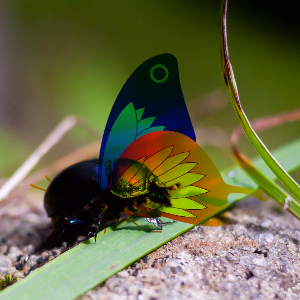
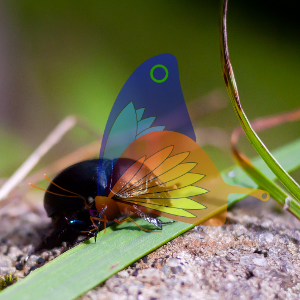
Added new blend modes to Blend effect

Changed region(s): [[0.27, 0.18, 0.9, 0.78], [0.09, 0.57, 0.27, 0.66]]

diff --git a/qtgraphicaleffects/src/effects/Blend.qml b/qtgraphicaleffects/src/effects/Blend.qml
@@ -79,16 +79,29 @@ Item {
         function buildFragmentShader() {
             var shader = fragmentShaderBegin
 
-            switch (mode) {
-                case "darken" : shader += blendModeDarken; break;
+            switch (mode.toLowerCase()) {
                 case "addition" : shader += blendModeAddition; break;
+                case "average" : shader += blendModeAverage; break;
+                case "color" : shader += blendModeColor; break;
+                case "colorburn" : shader += blendModeColorBurn; break;
+                case "colordodge" : shader += blendModeColorDodge; break;
+                case "darken" : shader += blendModeDarken; break;
+                case "darkercolor" : shader += blendModeDarkerColor; break;
                 case "difference" : shader += blendModeDifference; break;
                 case "divide" : shader += blendModeDivide; break;
+                case "exclusion" : shader += blendModeExclusion; break;
+                case "hardlight" : shader += blendModeHardLight; break;
+                case "hue" : shader += blendModeHue; break;
                 case "lighten" : shader += blendModeLighten; break;
+                case "lightercolor" : shader += blendModeLighterColor; break;
+                case "lightness" : shader += blendModeLightness; break;
+                case "negation" : shader += blendModeNegation; break;
                 case "normal" : shader += blendModeNormal; break;
                 case "multiply" : shader += blendModeMultiply; break;
+                case "saturation" : shader += blendModeSaturation; break;
                 case "screen" : shader += blendModeScreen; break;
                 case "subtract" : shader += blendModeSubtract; break;
+                case "softlight" : shader += blendModeSoftLight; break;
                 default: shader += "gl_FragColor = vec4(1.0, 0.0, 0.0, 1.0);"; break;
             }
 
@@ -108,20 +121,107 @@ Item {
         }
 
         property string blendModeAddition: "result.rgb = min(rgb1 + rgb2, 1.0);"
+        property string blendModeAverage: "result.rgb = 0.5 * (rgb1 + rgb2);"
+        property string blendModeColor: "result.rgb = HSLtoRGB(vec3(RGBtoHSL(rgb2).xy, RGBtoL(rgb1)));"
+        property string blendModeColorBurn: "result.rgb = clamp(1.0 - ((1.0 - rgb1) / max(vec3(1.0 / 256.0), rgb2)), vec3(0.0), vec3(1.0));"
+        property string blendModeColorDodge: "result.rgb = clamp(rgb1 / max(vec3(1.0 / 256.0), (1.0 - rgb2)), vec3(0.0), vec3(1.0));"
         property string blendModeDarken: "result.rgb = min(rgb1, rgb2);"
+        property string blendModeDarkerColor: "result.rgb = 0.3 * rgb1.r + 0.59 * rgb1.g + 0.11 * rgb1.b > 0.3 * rgb2.r + 0.59 * rgb2.g + 0.11 * rgb2.b ? rgb2 : rgb1;"
         property string blendModeDifference: "result.rgb = abs(rgb1 - rgb2);"
         property string blendModeDivide: "result.rgb = clamp(rgb1 / rgb2, 0.0, 1.0);"
+        property string blendModeExclusion: "result.rgb = rgb1 + rgb2 - 2.0 * rgb1 * rgb2;"
+        property string blendModeHardLight: "result.rgb = vec3(channelBlendHardLight(rgb1.r, rgb2.r), channelBlendHardLight(rgb1.g, rgb2.g), channelBlendHardLight(rgb1.b, rgb2.b));"
+        property string blendModeHue: "result.rgb = HSLtoRGB(vec3(RGBtoHSL(rgb2).x, RGBtoHSL(rgb1).yz));"
         property string blendModeLighten: "result.rgb = max(rgb1, rgb2);"
+        property string blendModeLighterColor: "result.rgb = 0.3 * rgb1.r + 0.59 * rgb1.g + 0.11 * rgb1.b > 0.3 * rgb2.r + 0.59 * rgb2.g + 0.11 * rgb2.b ? rgb1 : rgb2;"
+        property string blendModeLightness: "result.rgb = HSLtoRGB(vec3(RGBtoHSL(rgb1).xy, RGBtoL(rgb2)));"
         property string blendModeMultiply: "result.rgb = rgb1 * rgb2;"
+        property string blendModeNegation: "result.rgb = 1.0 - abs(1.0 - rgb1 - rgb2);"
         property string blendModeNormal: "result.rgb = rgb2;"
+        property string blendModeSaturation: "lowp vec3 hsl1 = RGBtoHSL(rgb1); result.rgb = HSLtoRGB(vec3(hsl1.x, RGBtoHSL(rgb2).y, hsl1.z));"
         property string blendModeScreen: "result.rgb = 1.0 - (vec3(1.0) - rgb1) * (vec3(1.0) - rgb2);"
         property string blendModeSubtract: "result.rgb = max(rgb1 - rgb2, vec3(0.0));"
+        property string blendModeSoftLight: "result.rgb = rgb1 * ((1.0 - rgb1) * rgb2 + (1.0 - (1.0 - rgb1) * (1.0 - rgb2)));"
 
         property string fragmentShaderBegin: "
             varying mediump vec2 qt_TexCoord0;
             uniform highp float qt_Opacity;
             uniform sampler2D backgroundSource;
             uniform sampler2D foregroundSource;
+
+            highp float RGBtoL(highp vec3 color) {
+                highp float cmin = min(color.r, min(color.g, color.b));
+                highp float cmax = max(color.r, max(color.g, color.b));
+                highp float l = (cmin + cmax) / 2.0;
+                return l;
+            }
+
+            highp vec3 RGBtoHSL(highp vec3 color) {
+                highp float cmin = min(color.r, min(color.g, color.b));
+                highp float cmax = max(color.r, max(color.g, color.b));
+                highp float h = 0.0;
+                highp float s = 0.0;
+                highp float l = (cmin + cmax) / 2.0;
+                highp float diff = cmax - cmin;
+
+                if (diff > 1.0 / 256.0) {
+                    if (l < 0.5)
+                        s = diff / (cmin + cmax);
+                    else
+                        s = diff / (2.0 - (cmin + cmax));
+
+                    if (color.r == cmax)
+                        h = (color.g - color.b) / diff;
+                    else if (color.g == cmax)
+                        h = 2.0 + (color.b - color.r) / diff;
+                    else
+                        h = 4.0 + (color.r - color.g) / diff;
+
+                    h /= 6.0;
+                }
+                return vec3(h, s, l);
+                }
+
+            highp float hueToIntensity(highp float v1, highp float v2, highp float h) {
+                h = fract(h);
+                if (h < 1.0 / 6.0)
+                    return v1 + (v2 - v1) * 6.0 * h;
+                else if (h < 1.0 / 2.0)
+                    return v2;
+                else if (h < 2.0 / 3.0)
+                    return v1 + (v2 - v1) * 6.0 * (2.0 / 3.0 - h);
+
+                return v1;
+            }
+
+            highp vec3 HSLtoRGB(highp vec3 color) {
+                highp float h = color.x;
+                highp float l = color.z;
+                highp float s = color.y;
+
+                if (s < 1.0 / 256.0)
+                    return vec3(l, l, l);
+
+                highp float v1;
+                highp float v2;
+                if (l < 0.5)
+                    v2 = l * (1.0 + s);
+                else
+                    v2 = (l + s) - (s * l);
+
+                v1 = 2.0 * l - v2;
+
+                highp float d = 1.0 / 3.0;
+                highp float r = hueToIntensity(v1, v2, h + d);
+                highp float g = hueToIntensity(v1, v2, h);
+                highp float b = hueToIntensity(v1, v2, h - d);
+                return vec3(r, g, b);
+            }
+
+            lowp float channelBlendHardLight(lowp float c1, lowp float c2) {
+                return c2 > 0.5 ? (1.0 - (1.0 - 2.0 * (c2 - 0.5)) * (1.0 - c1)) : (2.0 * c1 * c2);
+            }
+
             void main() {
                 lowp vec4 result = vec4(0.0);
                 lowp vec4 color1 = texture2D(backgroundSource, qt_TexCoord0);

diff --git a/qtgraphicaleffects/tests/manual/testbed/TestBlend.qml b/qtgraphicaleffects/tests/manual/testbed/TestBlend.qml
@@ -102,7 +102,32 @@ TestCaseTemplate {
                     onPressedChanged: blendMode.value = caption
                 }
                 RadioButton {
+                    caption: "average"
+                    selected: caption == blendMode.value
+                    onPressedChanged: blendMode.value = caption
+                }
+                RadioButton {
+                    caption: "color"
+                    selected: caption == blendMode.value
+                    onPressedChanged: blendMode.value = caption
+                }
+                RadioButton {
+                    caption: "colorBurn"
+                    selected: caption == blendMode.value
+                    onPressedChanged: blendMode.value = caption
+                }
+                RadioButton {
+                    caption: "colorDodge"
+                    selected: caption == blendMode.value
+                    onPressedChanged: blendMode.value = caption
+                }
+                RadioButton {
                     caption: "darken"
+                    selected: caption == blendMode.value
+                    onPressedChanged: blendMode.value = caption
+                }
+                RadioButton {
+                    caption: "darkerColor"
                     selected: caption == blendMode.value
                     onPressedChanged: blendMode.value = caption
                 }
@@ -117,7 +142,17 @@ TestCaseTemplate {
                     onPressedChanged: blendMode.value = caption
                 }
                 RadioButton {
-                    caption: "multiply"
+                    caption: "exclusion"
+                    selected: caption == blendMode.value
+                    onPressedChanged: blendMode.value = caption
+                }
+                RadioButton {
+                    caption: "hardLight"
+                    selected: caption == blendMode.value
+                    onPressedChanged: blendMode.value = caption
+                }
+                RadioButton {
+                    caption: "hue"
                     selected: caption == blendMode.value
                     onPressedChanged: blendMode.value = caption
                 }
@@ -127,7 +162,37 @@ TestCaseTemplate {
                     onPressedChanged: blendMode.value = caption
                 }
                 RadioButton {
+                    caption: "lighterColor"
+                    selected: caption == blendMode.value
+                    onPressedChanged: blendMode.value = caption
+                }
+                RadioButton {
+                    caption: "lightness"
+                    selected: caption == blendMode.value
+                    onPressedChanged: blendMode.value = caption
+                }
+                RadioButton {
+                    caption: "multiply"
+                    selected: caption == blendMode.value
+                    onPressedChanged: blendMode.value = caption
+                }
+                RadioButton {
+                    caption: "negation"
+                    selected: caption == blendMode.value
+                    onPressedChanged: blendMode.value = caption
+                }
+                RadioButton {
+                    caption: "saturation"
+                    selected: caption == blendMode.value
+                    onPressedChanged: blendMode.value = caption
+                }
+                RadioButton {
                     caption: "screen"
+                    selected: caption == blendMode.value
+                    onPressedChanged: blendMode.value = caption
+                }
+                RadioButton {
+                    caption: "softlight"
                     selected: caption == blendMode.value
                     onPressedChanged: blendMode.value = caption
                 }

diff --git a/qtgraphicaleffects/tools/pngdumper/ItemModel.qml b/qtgraphicaleffects/tools/pngdumper/ItemModel.qml
@@ -51,7 +51,8 @@ VisualItemModel {
         property string __name: "Blend"
         property variant __properties: ["mode"]
         property string __varyingProperty: "mode"
-        property variant __values: ["normal", "addition", "darken", "difference", "divide", "lighten", "multiply", "screen", "subtract"]
+        property variant __values: ["normal", "addition","average", "color", "colorBurn","colorDodge", "darken", "darkerColor", "difference", "divide",
+           "exclusion", "hardlight", "hue", "lighten", "lighterColor", "lightness", "negation", "multiply", "saturation", "screen", "subtract", "softLight"]
     }
 
     BrightnessContrast {

diff --git a/qtgraphicaleffects/doc/src/snippets/Blend-example.qml b/qtgraphicaleffects/doc/src/snippets/Blend-example.qml
@@ -68,7 +68,7 @@ Item {
         anchors.fill: blendSourceItem1
         backgroundSource: blendSourceItem1
         foregroundSource: blendSourceItem2
-        mode: "screen"
+        mode: "subtract"
     }
 }
 //! [example]
